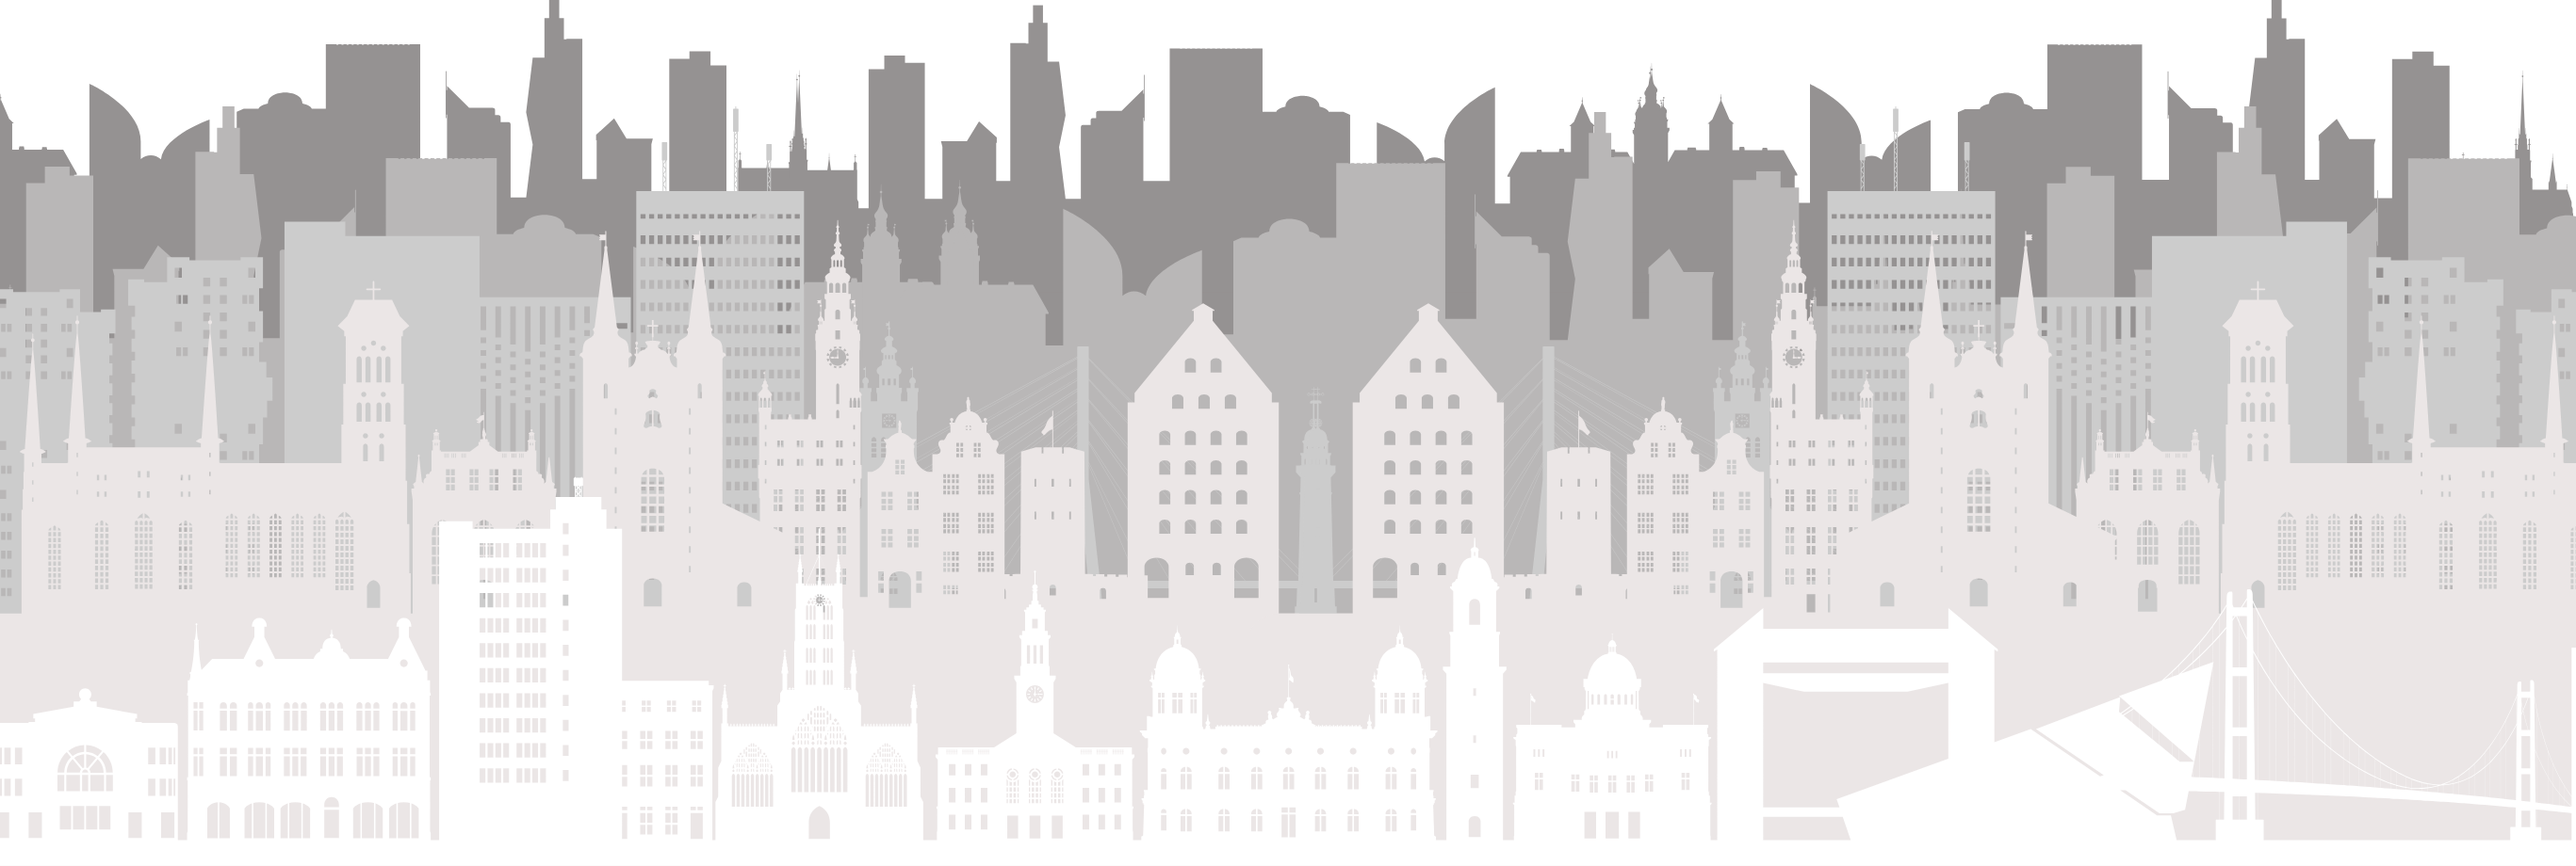
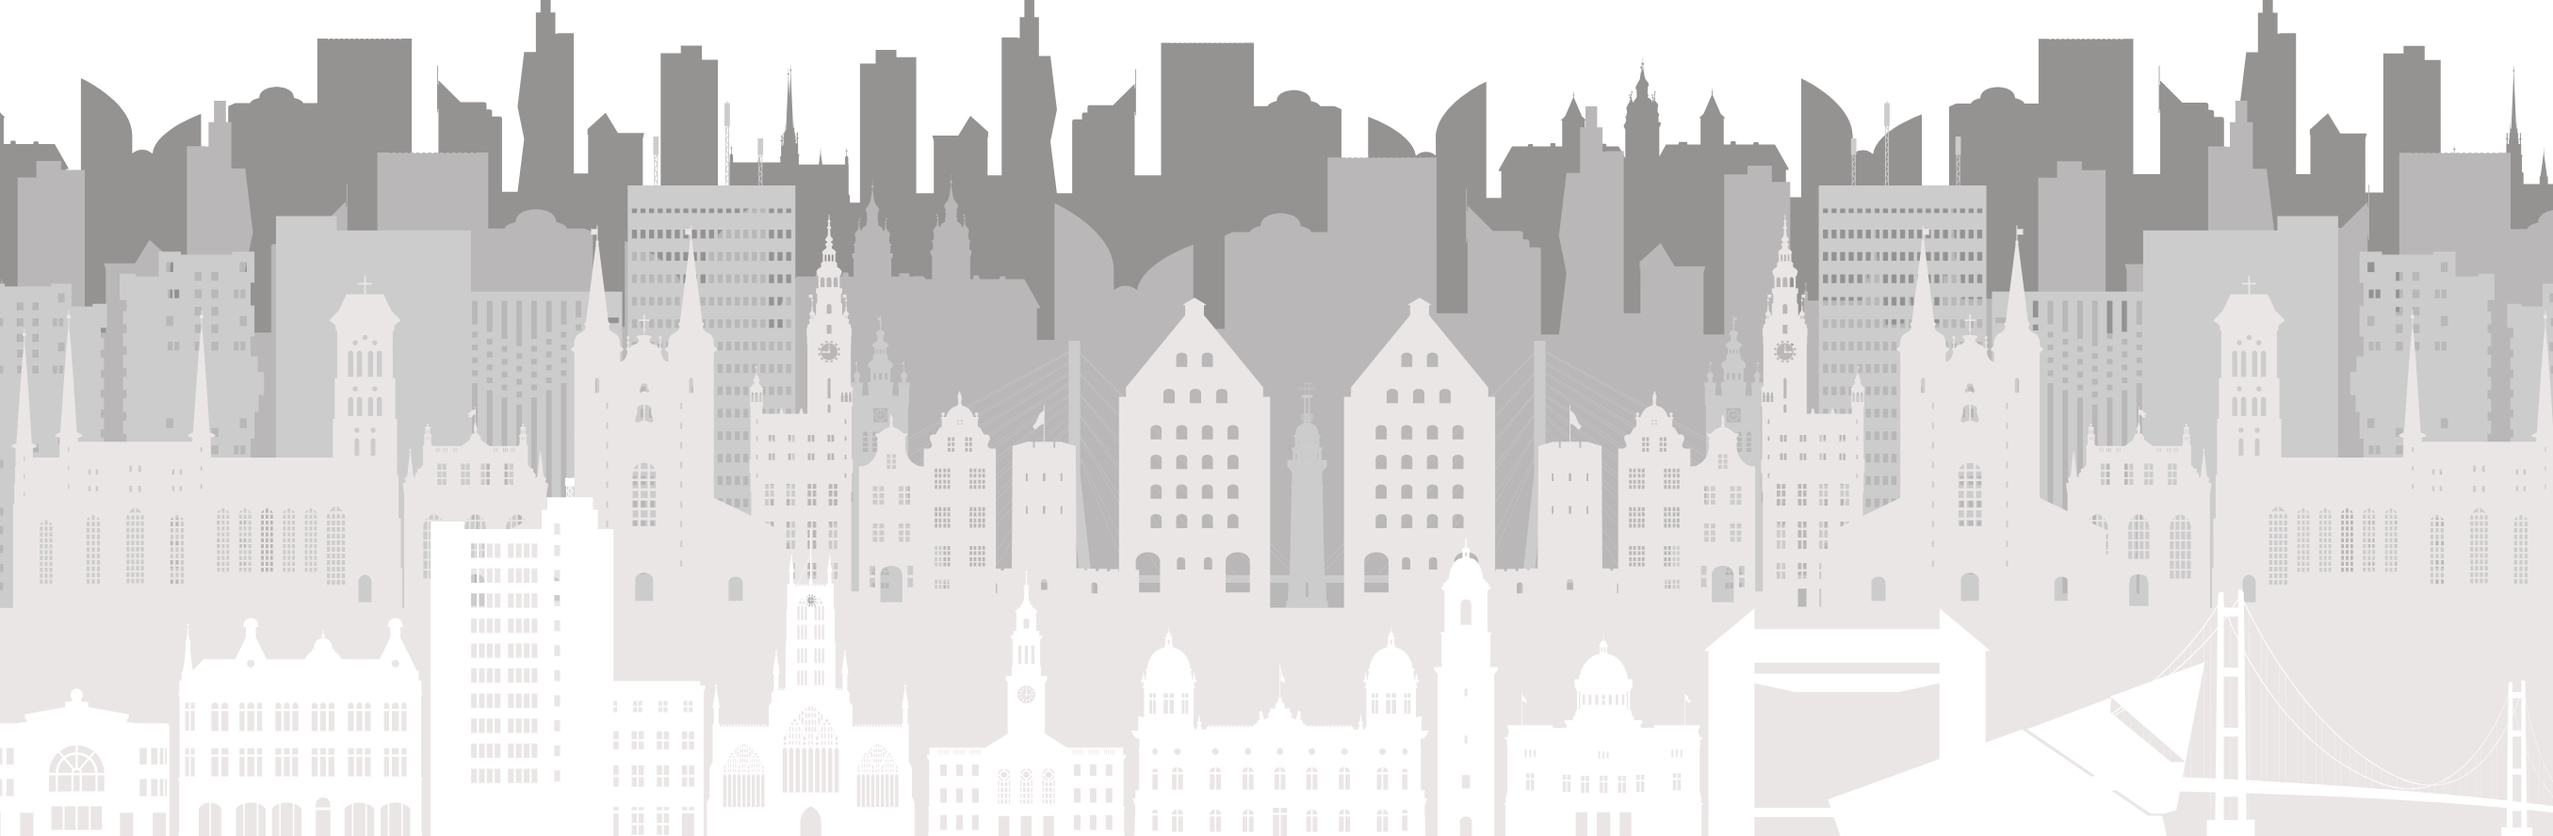
mv背景修正

diff --git a/style.css b/style.css
@@ -113,7 +113,7 @@ main {
 
 .building-img {
   position: absolute;
-  bottom: 10%;
+  bottom: 0%;
   left: 0;
   width: 100%;
   z-index: 1;
